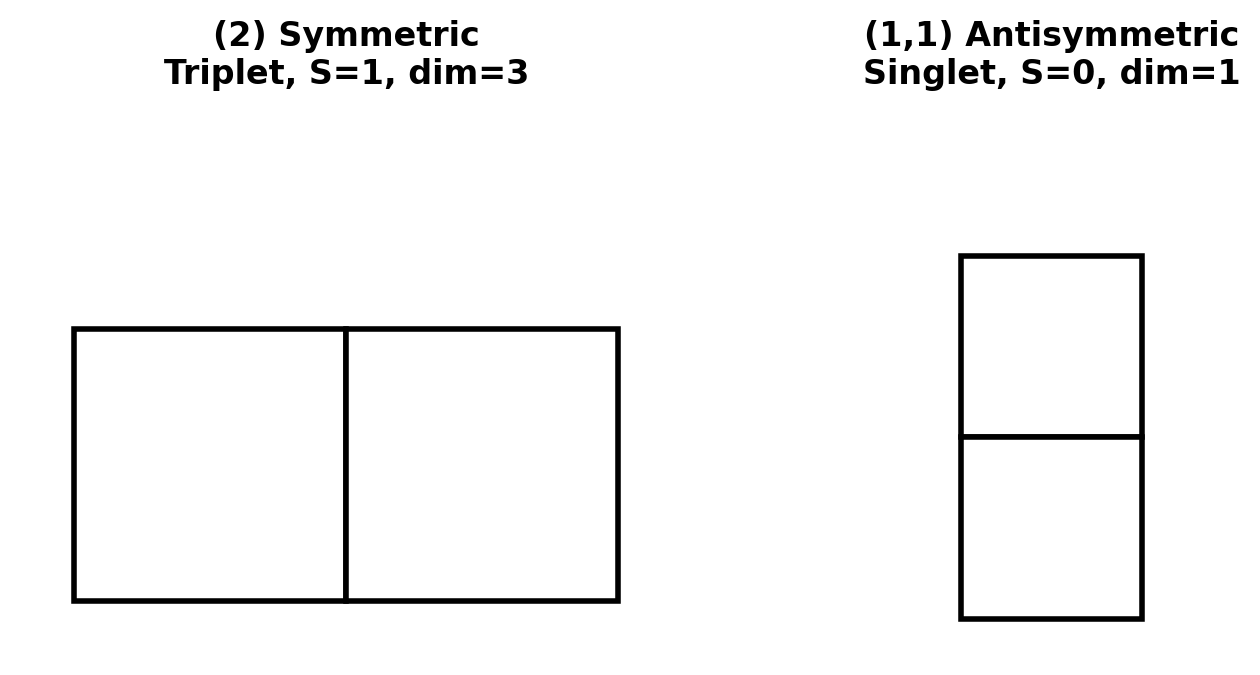
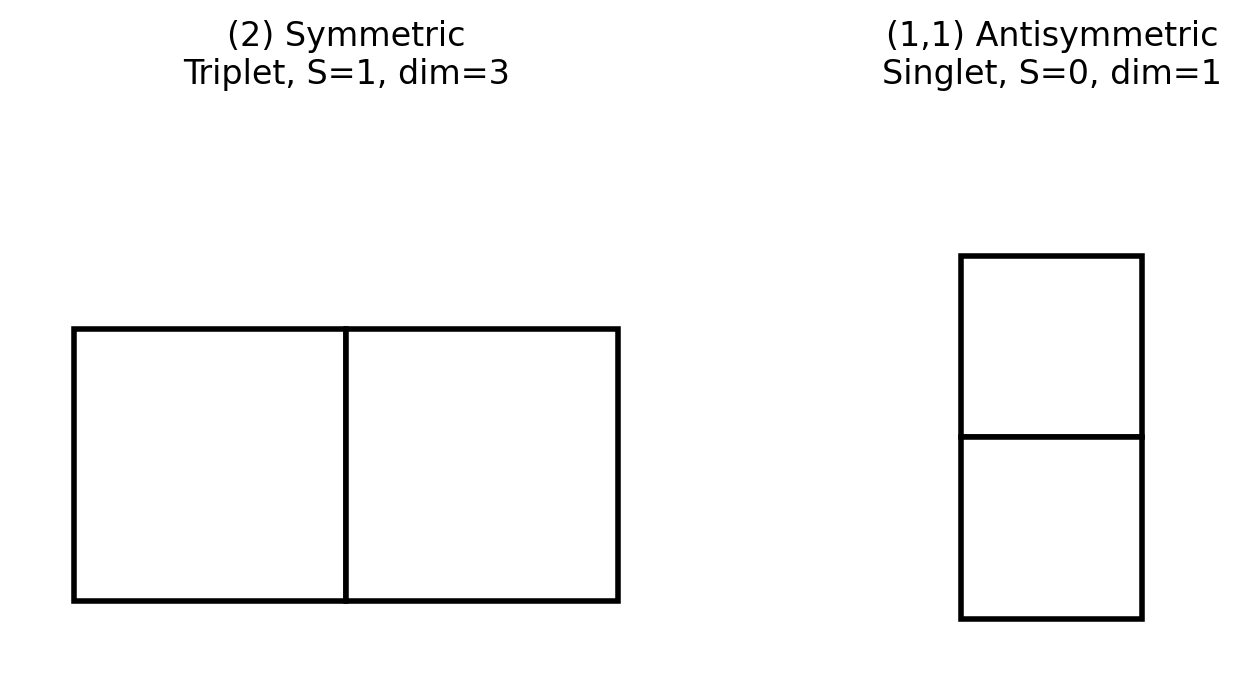
Fix Young diagram labels and table formatting in angular momentum article

diff --git a/utils/generate_young_diagrams.py b/utils/generate_young_diagrams.py
@@ -51,7 +51,7 @@ def draw_young_diagram(ax, partition, labels=None, title='', box_size=1.0,
                        -(i + 0.5) * box_size,
                        labels[i * max_cols + j],
                        ha='center', va='center',
-                       fontsize=14, fontweight='bold')
+                       fontsize=14)
     
     # Set limits and aspect
     ax.set_xlim(-0.2, max_cols * box_size + 0.2)
@@ -61,7 +61,7 @@ def draw_young_diagram(ax, partition, labels=None, title='', box_size=1.0,
     
     # Add title
     if title:
-        ax.set_title(title, fontsize=12, fontweight='bold', pad=10)
+        ax.set_title(title, fontsize=12, pad=10)
 
 
 def young_diagram_single(partition, filename, label='', box_labels=None):
@@ -169,7 +169,7 @@ def young_diagram_partition_examples():
     
     diagrams = [
         ([3], '(3)\nOne row', 'Symmetric'),
-        ([2, 1], '(2,1)\nMixed', 'Mixed'),
+        ([2, 1], '(2,1)', 'Mixed'),
         ([1, 1, 1], '(1,1,1)\nOne column', 'Antisymmetric'),
         ([4], '(4)\nOne row', 'Totally Symmetric'),
         ([2, 2], '(2,2)\nSquare', 'Mixed'),

diff --git a/docs/posts/quantum-mechanics/angular-momentum-algebra.md b/docs/posts/quantum-mechanics/angular-momentum-algebra.md
@@ -609,14 +609,15 @@ The CG coefficients for coupling two spin-1/2 particles are summarized below:
 | $j=0, m=0$ | $\frac{1}{\sqrt{2}}(\vert \uparrow\downarrow\rangle - \vert \downarrow\uparrow\rangle)$ | $\frac{1}{\sqrt{2}}$ |
 
 **Triplet States (Symmetric, S=1):**
-- |1,1⟩ = |↑↑⟩
-- |1,0⟩ = (|↑↓⟩ + |↓↑⟩)/√2  
-- |1,-1⟩ = |↓↓⟩
+**Triplet States (Symmetric, $S=1$):**
+$$|1,1\rangle = |\uparrow\uparrow\rangle$$
+$$|1,0\rangle = \frac{1}{\sqrt{2}}(|\uparrow\downarrow\rangle + |\downarrow\uparrow\rangle)$$
+$$|1,-1\rangle = |\downarrow\downarrow\rangle$$
 
-**Singlet State (Antisymmetric, S=0):**
-- |0,0⟩ = (|↑↓⟩ - |↓↑⟩)/√2
+**Singlet State (Antisymmetric, $S=0$):**
+$$|0,0\rangle = \frac{1}{\sqrt{2}}(|\uparrow\downarrow\rangle - |\downarrow\uparrow\rangle)$$
 
-### 4.8 Orbital-Spin Coupling (j = l ± 1/2)
+### 4.8 Orbital-Spin Coupling ($j = l \pm 1/2$)
 
 **Is $j$ the Coupling of $l$ and $s$? Yes!**
 
@@ -1010,10 +1011,13 @@ The number of such fillings equals the dimension of the representation.
 **Example: Partition (2,1) for 3 particles**
 
 Possible standard Young tableaux:
-```
-1  2      1  3
-3        2
-```
+
+| Tableau 1 | Tableau 2 |
+|:---------:|:---------:|
+| <pre>1  2<br>3</pre> | <pre>1  3<br>2</pre> |
+
+Or in linear notation:
+- $\begin{array}{|c|c|} \hline 1 & 2 \\ \hline 3 \\ \cline{1-1} \end{array}$ and $\begin{array}{|c|c|} \hline 1 & 3 \\ \hline 2 \\ \cline{1-1} \end{array}$
 
 There are exactly 2 such fillings, so the dimension is 2. This matches our calculation using the hook length formula!
 
